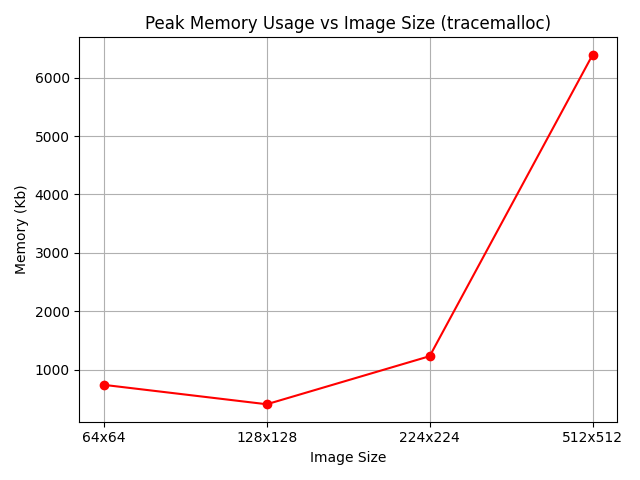
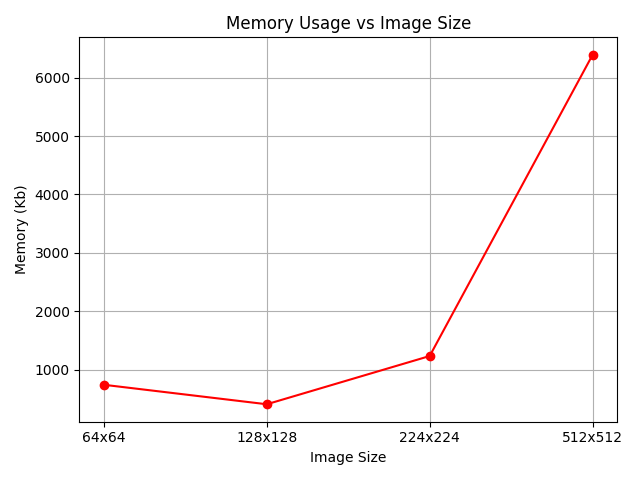
refactor and update results

Changed region(s): [[0.2188, 0.0312, 0.875, 0.0625]]

diff --git a/utils/visualization_utils.py b/utils/visualization_utils.py
@@ -138,7 +138,7 @@ def size_visualization(results):
 
     # График времени
     plt.figure()
-    plt.plot(df['size'], df['memory_KB'], marker='o')
+    plt.plot(df['size'], df['time_seconds'], marker='o')
     plt.xlabel('Image Size')
     plt.ylabel('Time seconds')
     plt.title('Time vs Size')
@@ -152,7 +152,7 @@ def size_visualization(results):
     plt.plot(df['size'], df['memory_KB'], marker='o', color='red')
     plt.xlabel('Image Size')
     plt.ylabel('Memory (Kb)')
-    plt.title('Peak Memory Usage vs Image Size (tracemalloc)')
+    plt.title('Memory Usage vs Image Size')
     plt.grid(True)
     plt.tight_layout()
     plt.savefig('results/size_experiments/memory_plot.png')
